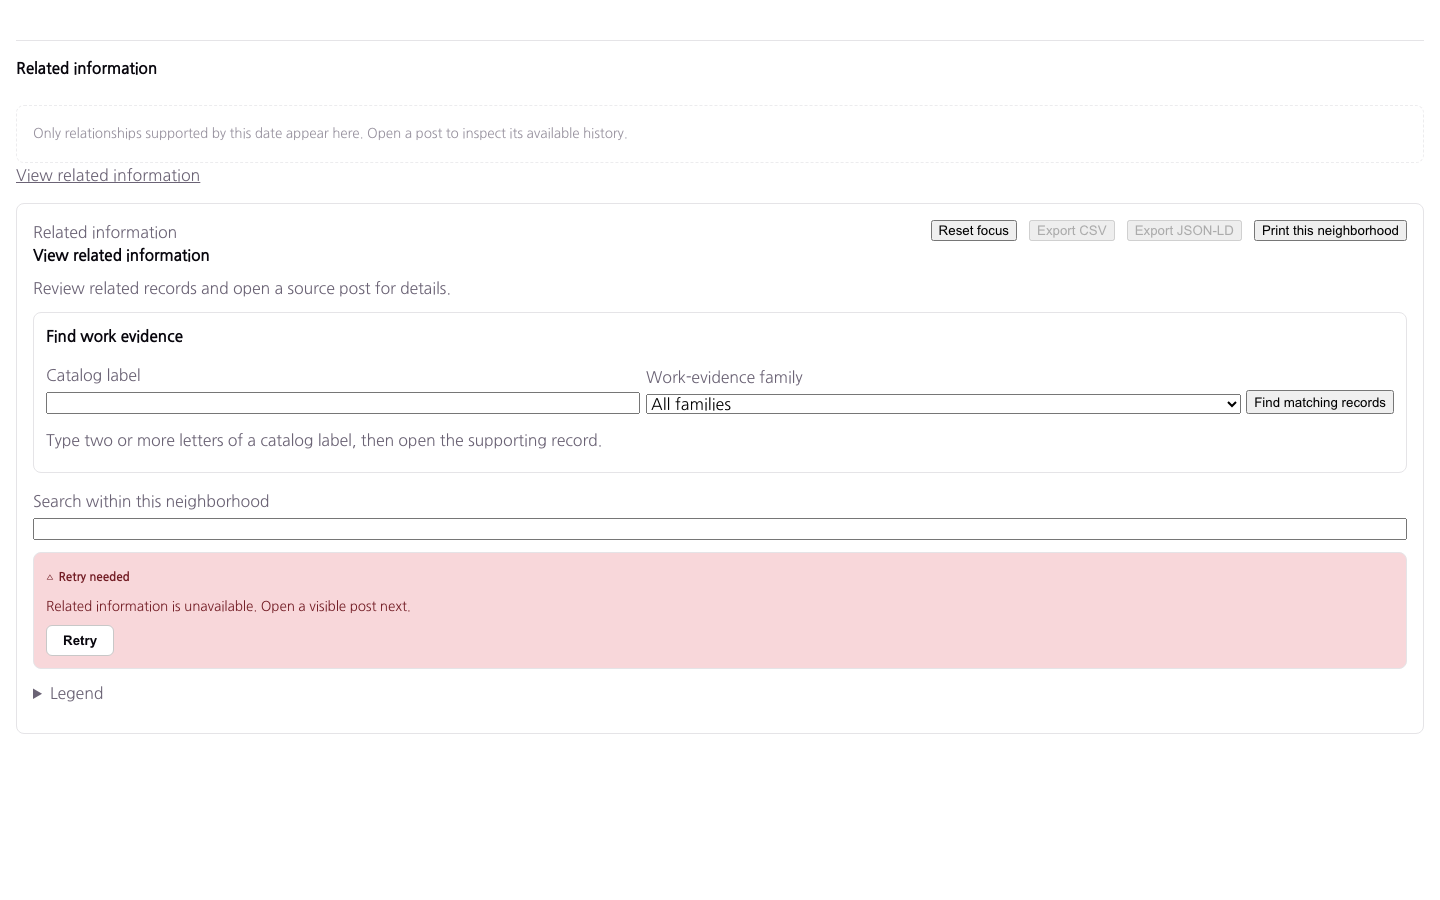
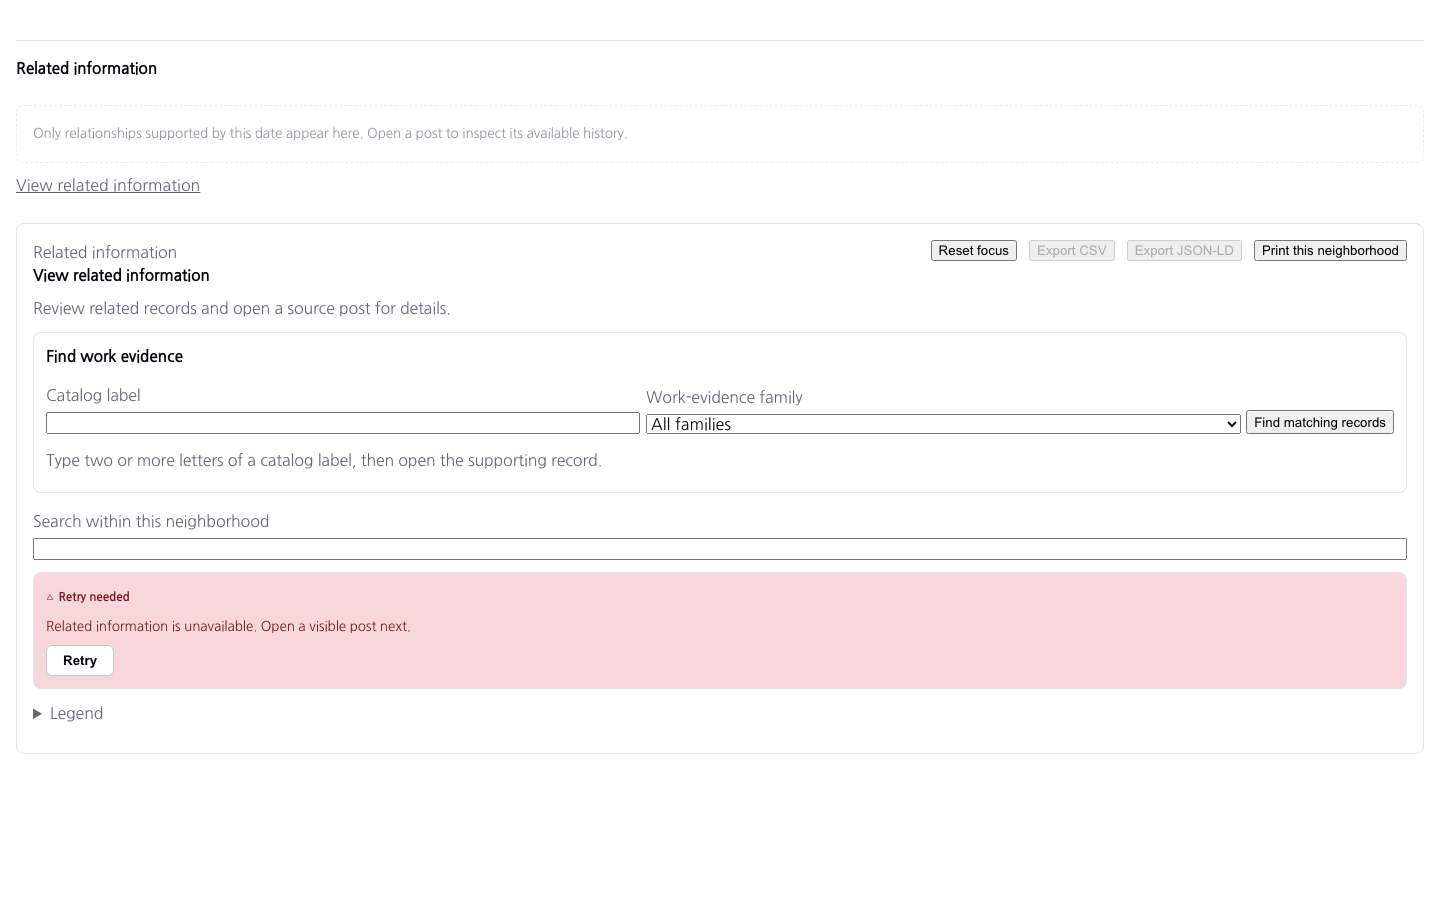
fix(a11y): enlarge historical evidence action target

Changed region(s): [[0.0, 0.2489, 1.0, 0.8089], [0.6562, 0.2489, 0.9688, 0.3111], [0.0, 0.1867, 0.1562, 0.2178]]

diff --git a/frontend/src/App.tsx b/frontend/src/App.tsx
@@ -909,7 +909,7 @@ export function HistoricalRelatedPanel({ postId, accessToken, knowledgeCutoff, o
     <section className="popup-section">
       <h3>{t("Related information")}</h3>
       <p className="popup-placeholder">{t("Only relationships supported by this date appear here. Open a post to inspect its available history.")}</p>
-      <button type="button" className="keyman-select" onClick={() => setOpen((value) => !value)} aria-expanded={open}>
+      <button type="button" className="keyman-select historical-related-toggle" onClick={() => setOpen((value) => !value)} aria-expanded={open}>
         {t("View related information")}
       </button>
       {open ? (

diff --git a/frontend/src/components/HistoricalRelatedPanel.stories.tsx b/frontend/src/components/HistoricalRelatedPanel.stories.tsx
@@ -21,7 +21,9 @@ export const CutoffEvidence: Story = {
   play: async ({ canvasElement }) => {
     const canvas = within(canvasElement);
     await expect(canvas.getByText("Only relationships supported by this date appear here. Open a post to inspect its available history.")).toBeVisible();
-    await expect(canvas.getByRole("button", { name: "View related information" })).toHaveAttribute("aria-expanded", "false");
+    const action = canvas.getByRole("button", { name: "View related information" });
+    await expect(action).toHaveAttribute("aria-expanded", "false");
+    await expect(action.getBoundingClientRect().height).toBeGreaterThanOrEqual(44);
   },
 };
 

diff --git a/frontend/src/App.css b/frontend/src/App.css
@@ -987,6 +987,12 @@
   text-decoration: underline;
 }
 
+.historical-related-toggle {
+  display: inline-flex;
+  align-items: center;
+  min-height: var(--size-touch-target);
+}
+
 .lineage-link-button {
   background: none;
   border: none;

diff --git a/docs/product-technical-gap-baseline.md b/docs/product-technical-gap-baseline.md
@@ -1,5 +1,45 @@
 # Product & Technical Gap Baseline
 
+## Exact-head audit — 2026-10-26 23:10 UTC
+
+The current LineageWeave PRD and linked repository authorities were read
+before this loop. GitHub confirms canonical `ContextualWisdomLab/LineageWeave`,
+`RankWeave`, `ThreadWeave`, `TEPP`, `fast-mlsirm`, and lowercase `disksage`.
+The product contract remains supporting authority; accepted ADR 0246 defines
+the twelve atomic Voice types, ADR 0256 governs open-ended evidence-bearing
+combinations, and ADR 0252 governs cutoff history. Their cited stakeholder
+research supports distinguishing perspectives, not a fixed combination list
+or a classification weight. TEPP and fast-mlsirm own measurement arithmetic;
+RankWeave owns fusion, ThreadWeave owns threading, and contextual-orchestrator
+owns model, VISION, and embedding routing. No owner computation was copied.
+
+Remote `main` is `91c3e1c7411f56408e4ce61417479ace36ff40cb`. Ready PR
+#1183 is open at pre-edit head `a02d044ab6db17d2ffd36569785109cc91354718`.
+Its two review threads are resolved; the four formal reviews are comments on
+older commits, with no independent approval. The four exact-head Actions
+jobs failed before any runner step (`runner_id: 0`); the Full test job's
+annotation states that the GitHub Actions account is locked for billing.
+CodeRabbit/Devin statuses do not replace those checks or approval. The live
+applicable default-branch rule is only non-fast-forward protection, so normal
+auto-merge could bypass the requested checks and independent approval; it
+remains off. There is no merge SHA.
+
+| Evidence tier | Current observation | Limit |
+| --- | --- | --- |
+| Normative and external | ADRs above and [W3C WCAG 2.2 target-size guidance](https://www.w3.org/WAI/WCAG22/Understanding/target-size-minimum) distinguish the governed Voice model and pointer target requirement | W3C's 24 px minimum is not a source of Voice classification or measurement policy; the product uses its existing 44 px control token |
+| Candidate implementation | #1183 preserves historical related-evidence cutoff and gives the empty Board an action. This edit expands the dated Related information action's text-height hit area to the existing 44 px touch target. | This documentation edit creates a new head, so earlier hosted receipts do not transfer |
+| Local and rendered evidence | 13 focused ontology tests and 153 frontend tests passed; lint, production build, Storybook build and diff check passed. Synthetic 1440×900 and 390×844 Chromium scenes measured the dated action at 44 px, with no horizontal overflow; collapsed and expanded screenshots were inspected. | Component scenes are not an authenticated customer journey |
+| Non-identifying live aggregate | 197 PRs are open, including 29 ready and 117 stacked; 43 issues are open. #1181 overlaps this baseline; #1177 and #1178 overlap frontend/Storybook files, while #1182 changes ADR 0212 and Post-filter API files without an ADR/API/schema/release-number overlap with #1183. | Queue counts are workflow observations, not a population sample or product metric |
+| Runtime acceptance | The canonical `lineageweave` Compose services exist, but PostgreSQL health reports an input/output error in `etc/passwd`, and the Docker image store also reports input/output errors. | Authenticated PostgreSQL Voice API/UI and synthetic k6 saturation evidence remain unavailable; no volume was deleted or population inference made |
+
+The high-impact Voice acceptance gap remains open: distinct carrying and
+derivation Posts, hidden-evidence denial, truth/cutoff history, and paged
+same-subject JSON-LD union require authenticated PostgreSQL and rendered UI
+proof on a healthy stack. The dated evidence action's touch-target repair is
+a bounded buyer-facing improvement within #1183, with a browser-size
+regression and current synthetic screenshots. It changes no ADR policy,
+endpoint, schema, release number, weight, or numerical method.
+
 ## Exact-head audit — 2026-10-26 21:59 UTC
 
 The current LineageWeave PRD and accepted ADRs 0246 and 0251 were read

diff --git a/docs/storybook-inventory.md b/docs/storybook-inventory.md
@@ -8,7 +8,7 @@ operator-facing control you can click before changing product CSS.
 | `Workspace/Post board/SearchPending` | Wait for the new search to finish before opening a result. The old result list and count are hidden during the pending request. `NarrowViewport` checks the same state on a phone-sized screen. Both stories use synthetic records; `board-search-pending-desktop.png` and `board-search-pending-mobile.png` record the rendered states. | `PostList`, existing board and status tokens |
 | `Workspace/Post board/SearchFailure` | Retry the same failed search with its filters still visible. The old result list and count stay hidden, and a provider diagnostic is not shown. `SearchFailureNarrowViewport` checks the same action on a phone-sized screen. Synthetic rendered captures `board-search-failure-desktop.png` and `board-search-failure-mobile.png` show the retry action without horizontal overflow. | `PostList`, `StatusNotice`, existing status tokens |
 | `Workspace/Post board/EmptyBoard` | A reader with no available posts keeps the administrator action while drafting a search; only submitting the search changes the result state. Unusable Voice, visibility, and sort controls are absent until a result can use them. `EmptyBoardNarrowViewport` checks the same state on a phone-sized screen. Synthetic rendered captures `board-empty-desktop.png` and `board-empty-mobile.png` show the search and action without horizontal overflow. | `PostList`, existing board tokens |
-| `Post/Historical related information` | Inspect only relationships supported by the selected date, then open a post to inspect the history available then. `CutoffEvidence` and `NarrowViewport` keep this next action legible without showing current-only Keyman relations. Desktop and mobile captures also audit the expanded unavailable state and retry action (`historical-related-cutoff-expanded-*.png`); they are synthetic Storybook evidence, not an authenticated Post journey. | `HistoricalRelatedPanel`, existing popup and control tokens |
+| `Post/Historical related information` | Inspect only relationships supported by the selected date, then open a post to inspect the history available then. `CutoffEvidence` and `NarrowViewport` keep this next action legible without showing current-only Keyman relations. The story asserts the related-information action's 44 px hit area; desktop and mobile captures audit both the closed control and expanded unavailable/retry state (`historical-related-cutoff-*.png`). These are synthetic Storybook evidence, not an authenticated Post journey. | `HistoricalRelatedPanel`, `--size-touch-target`, existing popup tokens |
 | `Evidence/OntologyExplorer/SignInRequired` | Sign in again after authentication expires; no same-credential Retry or export is available. Desktop/mobile retain the shared named unavailable region. | `OntologyExplorer`, `StatusNotice`, existing status tokens |
 | `Evidence/OntologyExplorerRetry/InitialRequestRetry` | Retry the same failed related-information request without reopening the Post; desktop/mobile show the shared retry alert and keep exports disabled until evidence arrives. Synthetic diagnostics stay hidden. | `OntologyExplorer`, `StatusNotice`, existing badge-status tokens |
 | `Evidence/OntologyExplorer/FilteredExport` | Search for a relation, then export JSON-LD and CSV; both retain only the relationships shown in the exact-value table. Desktop/mobile reuse the existing graph and keyboard-scrollable table. | `OntologyExplorer`, `ontologyLayout`, existing ontology/table tokens |
